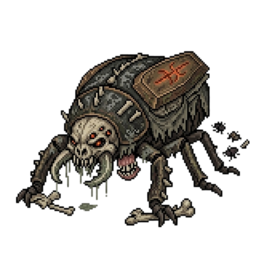
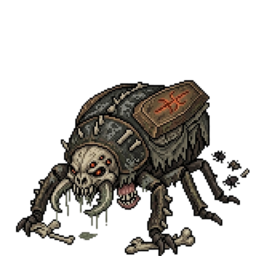
update

diff --git a/src/scenes/BattleScene.ts b/src/scenes/BattleScene.ts
@@ -3949,11 +3949,11 @@ private createFighterSpriteCard(config: {
 
   const fighterBoxWidth = layout.veryCompact ? 222 : layout.compact ? 258 : 290;
   const fighterBoxHeight = layout.veryCompact ? 272 : layout.compact ? 318 : 358;
-  const spriteMaxWidth = fighterBoxWidth * (config.isEnemy ? 1.06 : 0.94);
-  const spriteMaxHeight = fighterBoxHeight * (config.isEnemy ? 1.06 : 0.92);
+  const spriteMaxWidth = fighterBoxWidth * (config.isEnemy ? 1.06 : 1.02);
+  const spriteMaxHeight = fighterBoxHeight * (config.isEnemy ? 1.06 : 1.0);
   const spriteY = config.isEnemy
-    ? -(layout.veryCompact ? 22 : layout.compact ? 30 : 36)
-    : -(layout.veryCompact ? 14 : layout.compact ? 20 : 26);
+    ? -(layout.veryCompact ? 10 : layout.compact ? 13 : 16)
+    : -(layout.veryCompact ? 6 : layout.compact ? 8 : 10);
 
   const aura = this.add.circle(
     0,
@@ -3971,8 +3971,8 @@ private createFighterSpriteCard(config: {
   const titleY = layout.veryCompact ? 92 : layout.compact ? 110 : 128;
   const hpRowY = titleY + (layout.veryCompact ? 18 : 21);
   const energyRowY = hpRowY + (layout.veryCompact ? 12 : 14);
-  const labelWidth = layout.veryCompact ? 22 : 28;
-  const valueWidth = layout.veryCompact ? 46 : 56;
+  const labelWidth = layout.veryCompact ? 26 : 32;
+  const valueWidth = layout.veryCompact ? 52 : 62;
   const gap = layout.veryCompact ? 4 : 5;
   const barWidth = Math.max(76, uiWidth - labelWidth - valueWidth - gap * 2);
   const barLeft = -uiWidth / 2 + labelWidth + gap;
@@ -3983,8 +3983,8 @@ private createFighterSpriteCard(config: {
   const nameText = this.add.text(0, titleY, config.name, {
     fontFamily: UI.font.title,
     fontSize: config.isBoss
-      ? layout.veryCompact ? '12px' : layout.compact ? '14px' : '16px'
-      : layout.veryCompact ? '10px' : layout.compact ? '12px' : '13px',
+      ? layout.veryCompact ? '14px' : layout.compact ? '16px' : '18px'
+      : layout.veryCompact ? '12px' : layout.compact ? '14px' : '15px',
     color: titleColor,
     stroke: '#000000',
     strokeThickness: 3,
@@ -3999,7 +3999,7 @@ private createFighterSpriteCard(config: {
 
   const hpLabel = this.add.text(-uiWidth / 2, hpRowY, 'HP', {
     fontFamily: UI.font.body,
-    fontSize: layout.veryCompact ? '8px' : '9px',
+    fontSize: layout.veryCompact ? '9px' : '11px',
     color: config.isEnemy ? '#ffb0a8' : '#f0b1a8',
     stroke: '#000000',
     strokeThickness: 2,
@@ -4008,7 +4008,7 @@ private createFighterSpriteCard(config: {
 
   const hpText = this.add.text(uiWidth / 2, hpRowY, '', {
     fontFamily: UI.font.body,
-    fontSize: layout.veryCompact ? '8px' : '9px',
+    fontSize: layout.veryCompact ? '9px' : '11px',
     color: '#d8c7a3',
     stroke: '#000000',
     strokeThickness: 2,
@@ -4058,7 +4058,7 @@ private createFighterSpriteCard(config: {
     .setOrigin(0, 0.5);
   const energyLabel = this.add.text(-uiWidth / 2, energyRowY, 'ЭН', {
     fontFamily: UI.font.body,
-    fontSize: layout.veryCompact ? '8px' : '9px',
+    fontSize: layout.veryCompact ? '9px' : '11px',
     color: '#b9d8ff',
     stroke: '#000000',
     strokeThickness: 2,
@@ -4066,7 +4066,7 @@ private createFighterSpriteCard(config: {
   }).setOrigin(0, 0.5).setVisible(!config.isEnemy);
   const extraText = this.add.text(uiWidth / 2, energyRowY, '', {
     fontFamily: UI.font.body,
-    fontSize: layout.veryCompact ? '8px' : '9px',
+    fontSize: layout.veryCompact ? '9px' : '11px',
     color: '#b9d8ff',
     stroke: '#000000',
     strokeThickness: 2,